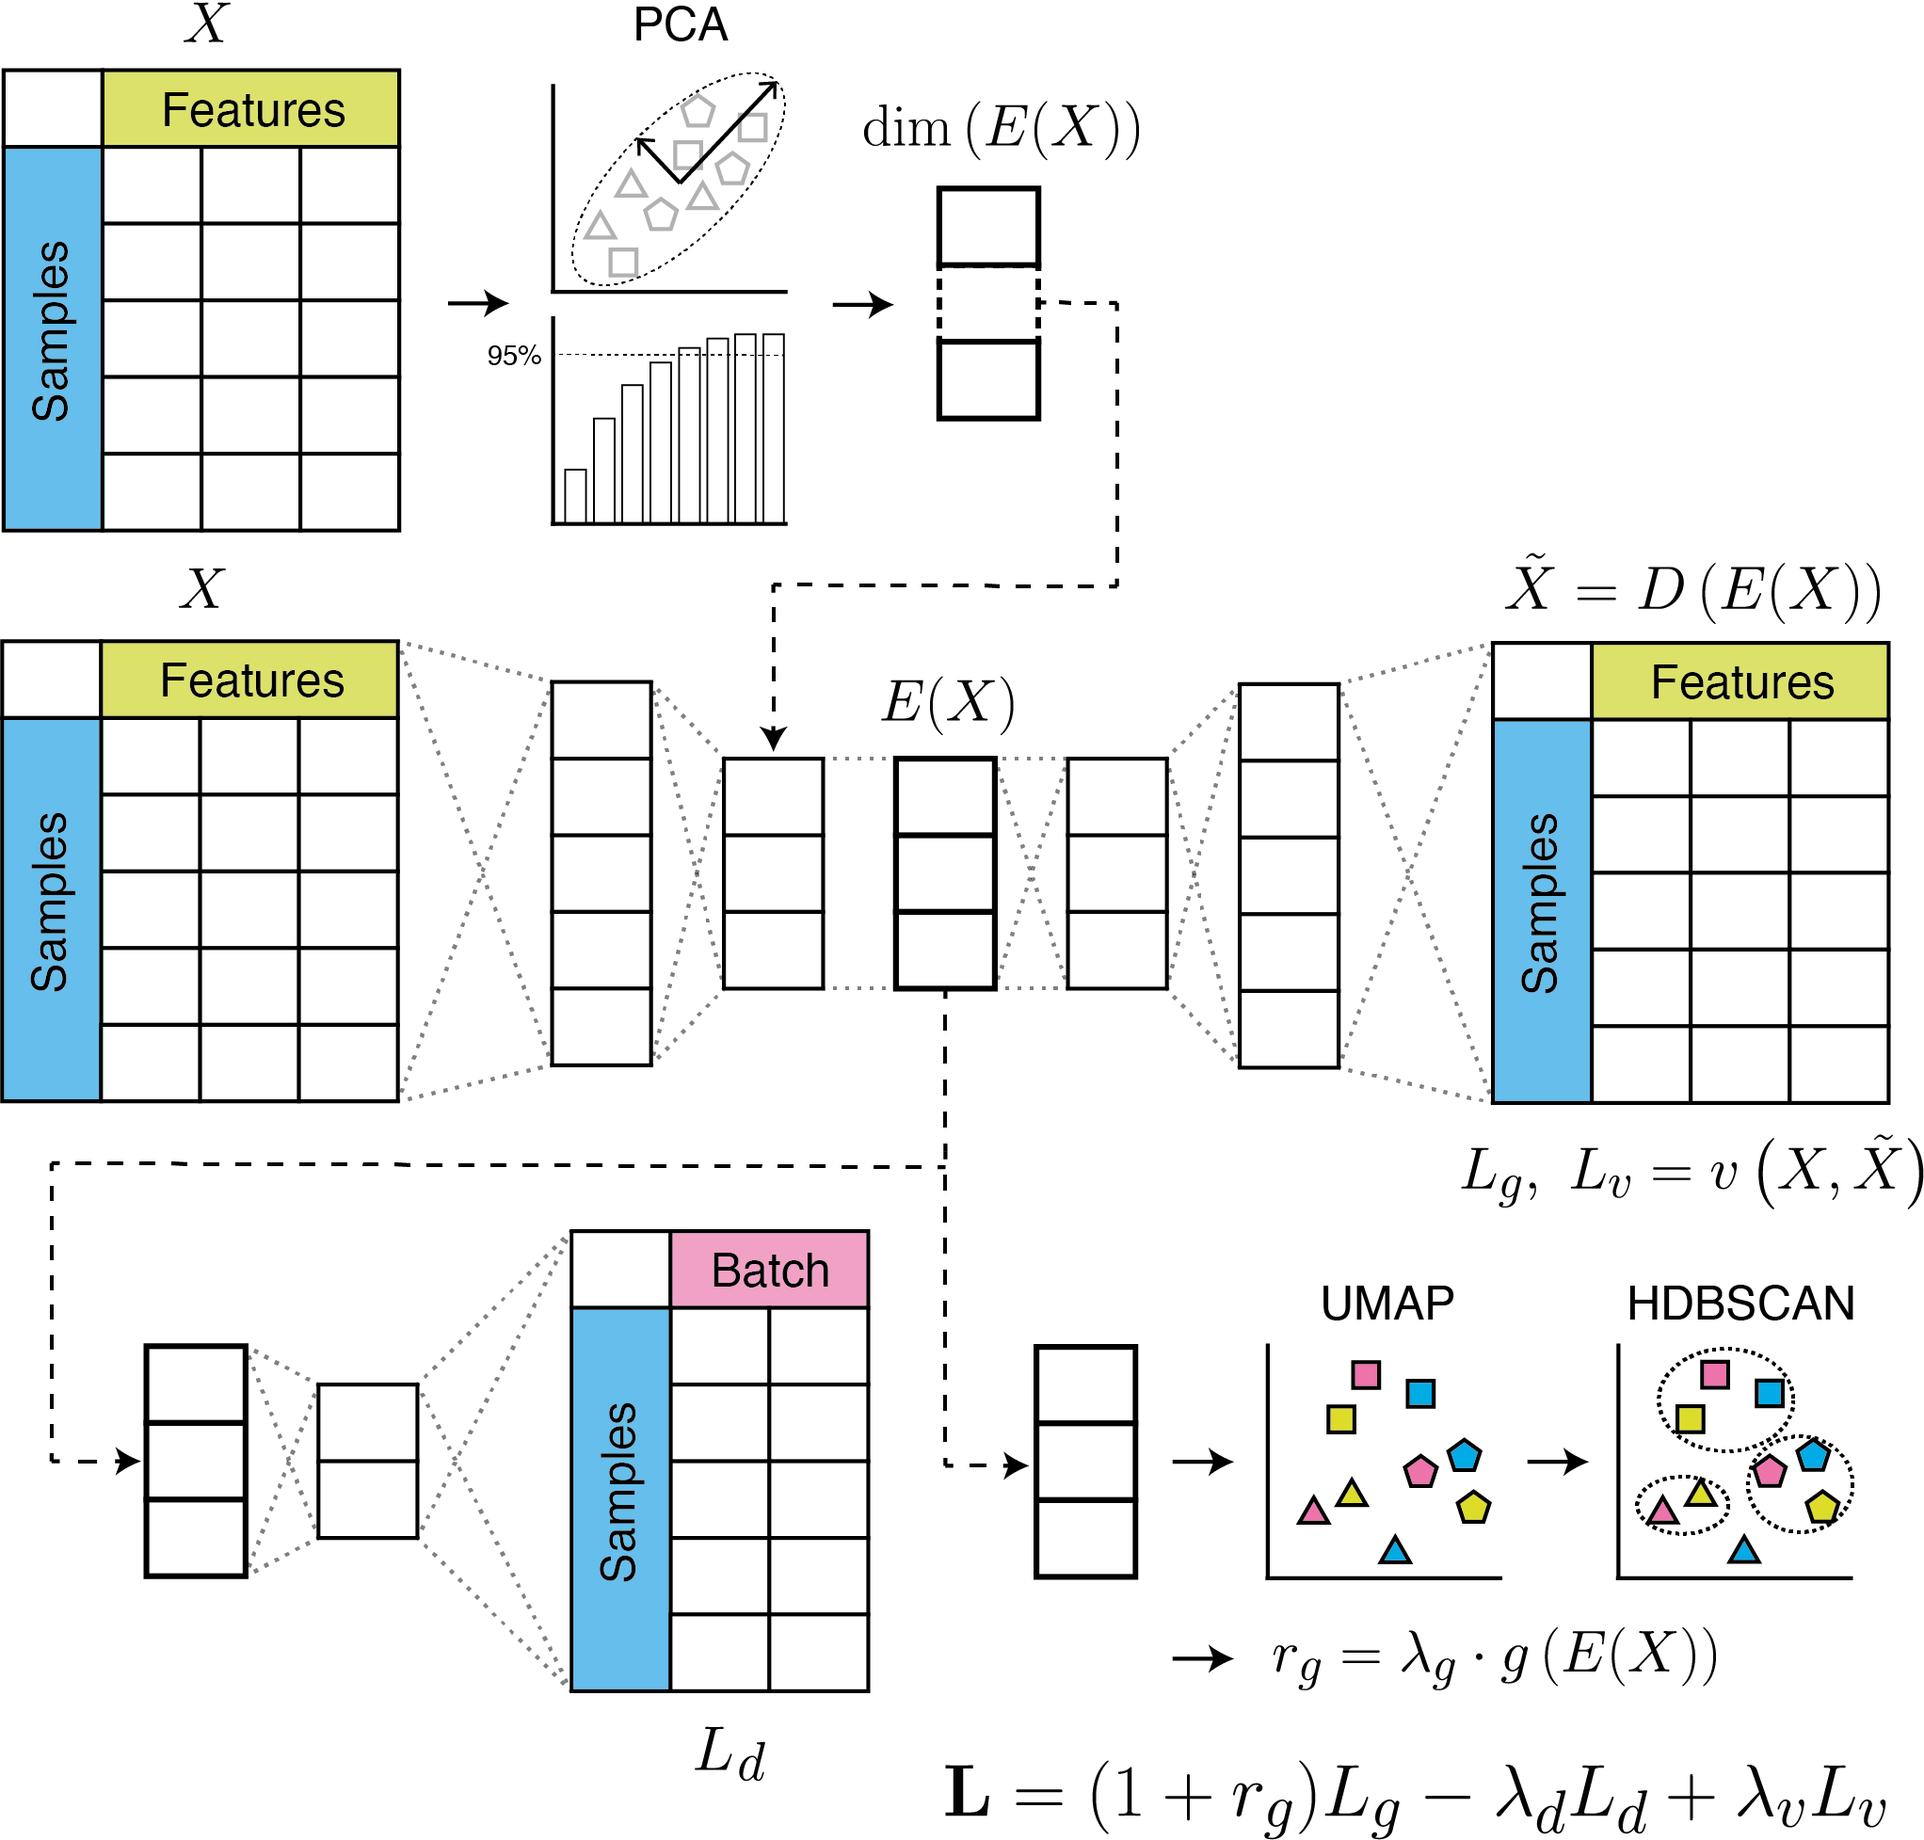
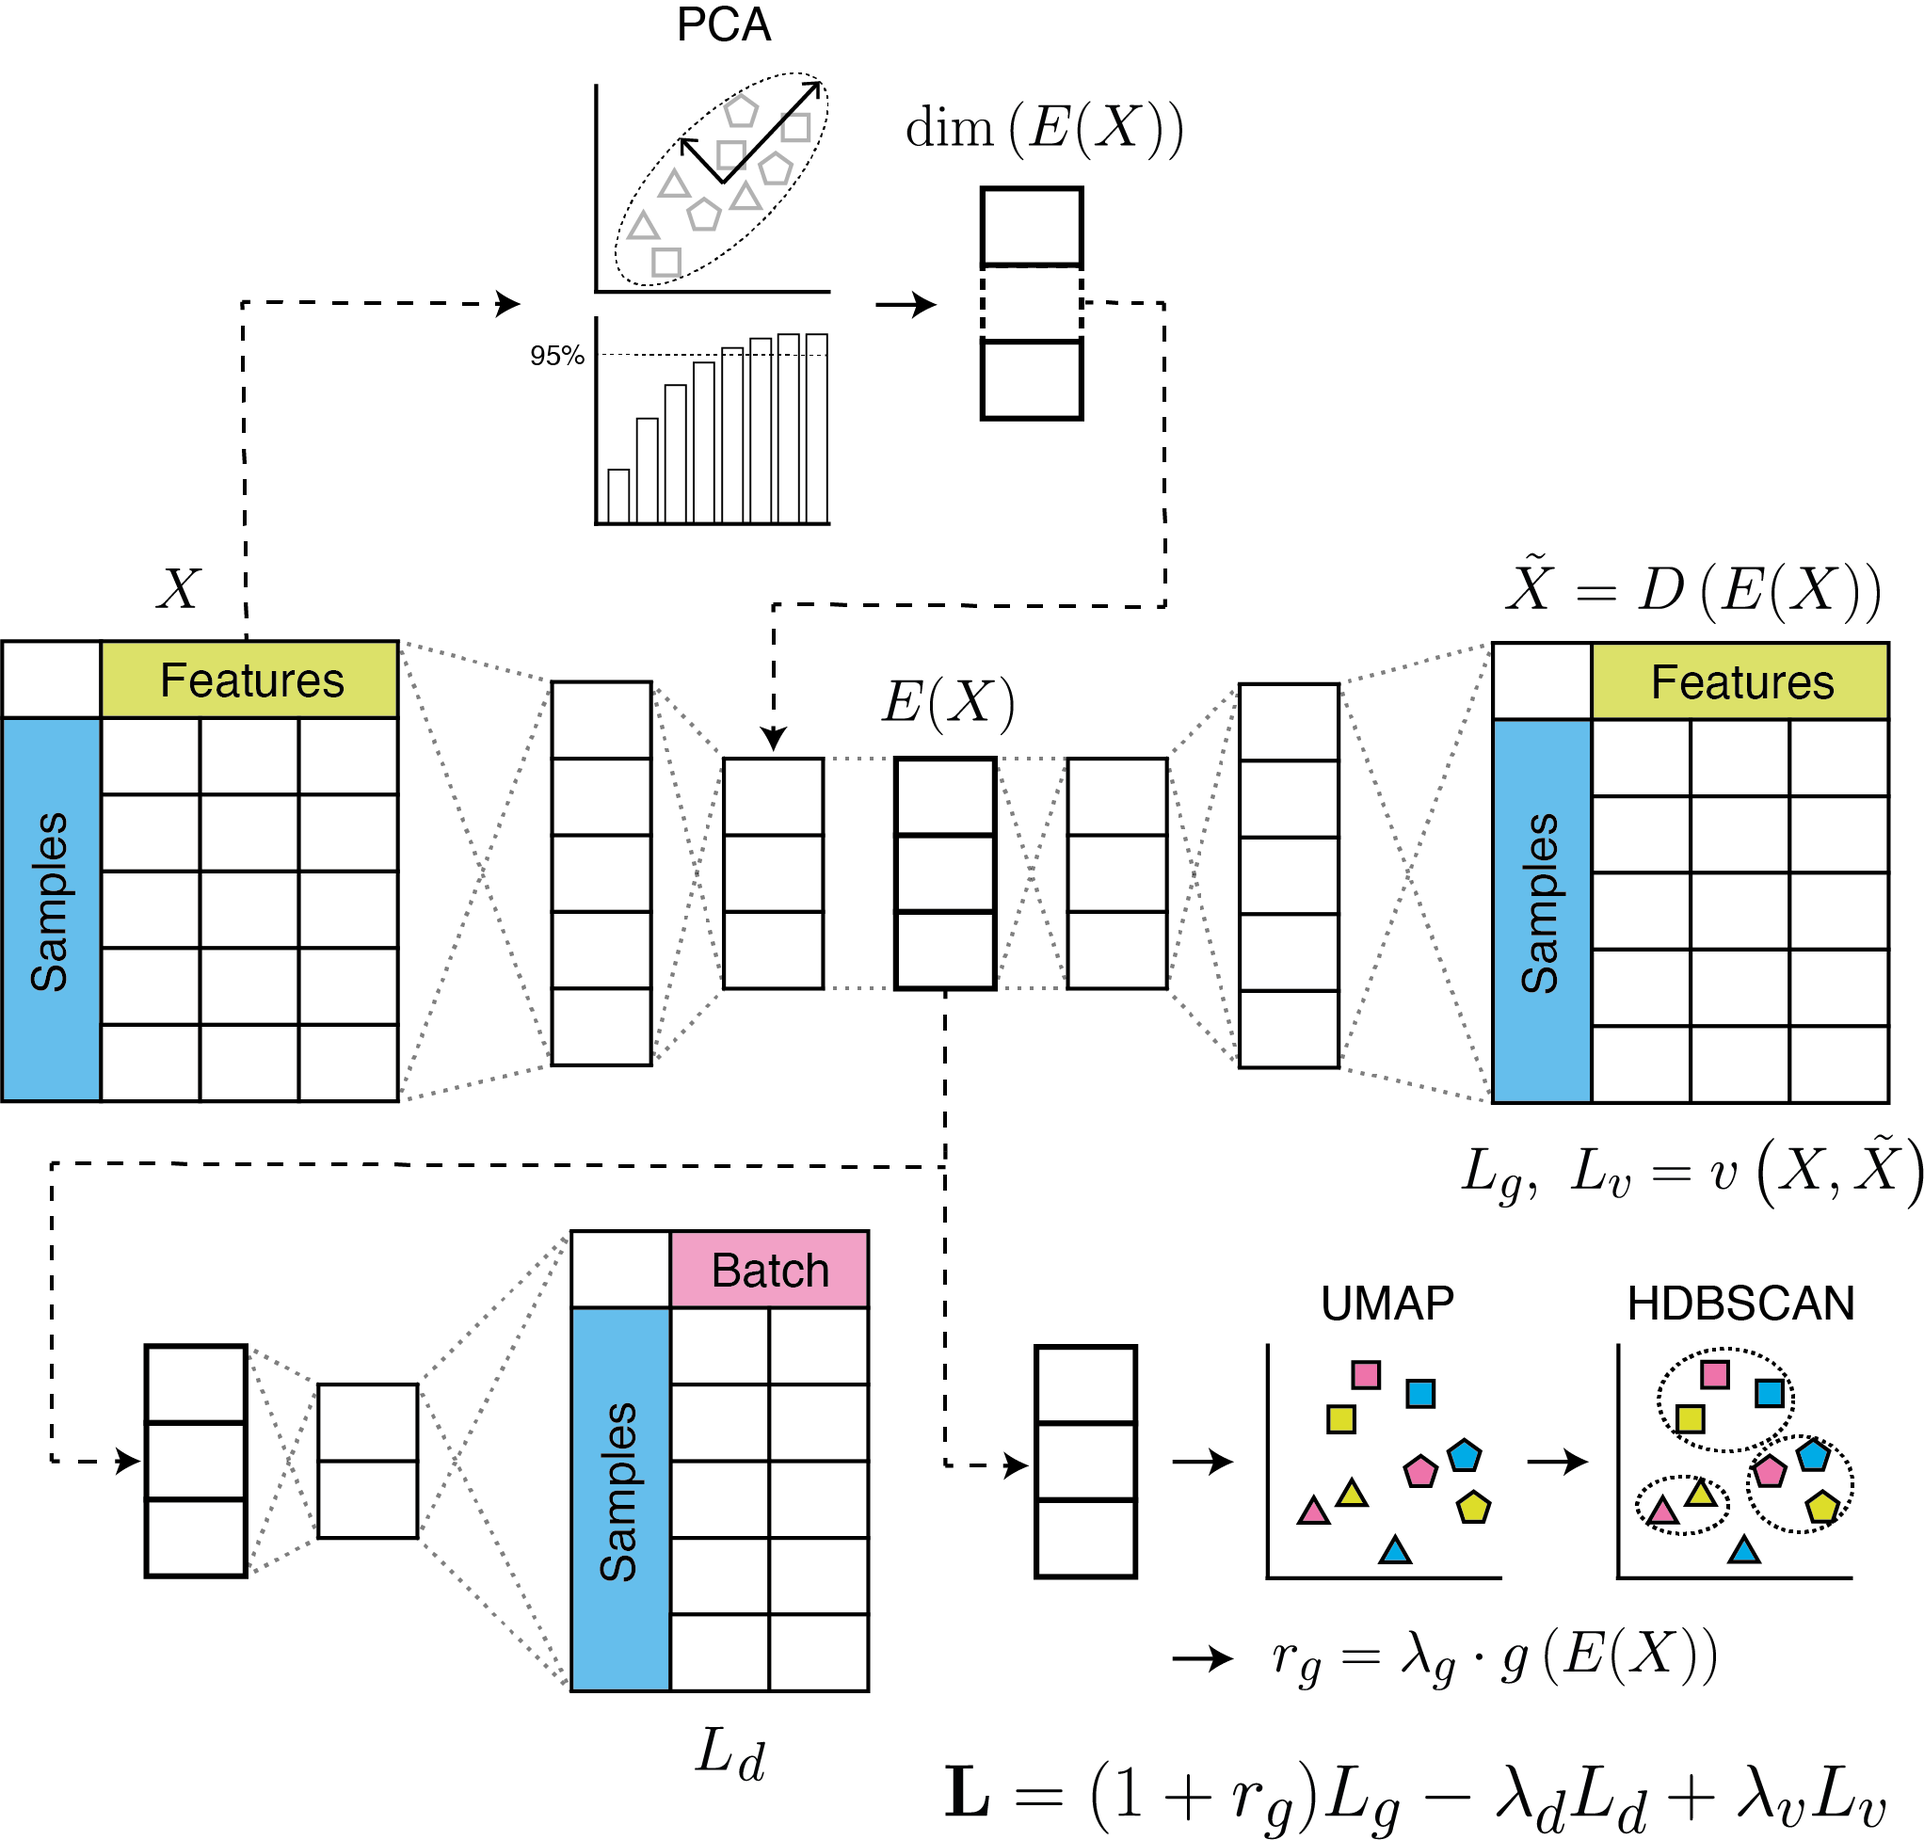
v.0.6.75-dev: readme + examples + schematic updated

diff --git a/src/constants.py b/src/constants.py
@@ -1,5 +1,5 @@
 
-version = "v.0.6.74"
+version = "v.0.6.75"
 
 # CONFIG
 required_config_fields = ['data_path', 'info_path', 'out_path', 'latent_dim', 'variance_ratio', 'n_replicates',

diff --git a/README.md b/README.md
@@ -1,10 +1,10 @@
 # RALPS
-RALPS stands for Regularized Adversarial Learning Preserving Similarity of samples.
+RALPS stands for Regularized Adversarial Learning Preserving Similarity.
 It's a novel method for eliminating batch effects in omics data, developed originally to harmonize distant-in-time multi-batch flow-injection mass-spectrometry measurements.
 
-<img src="https://github.com/dmitrav/normalization/blob/v6_dev/schematic/figure.png" alt="RALPS" width="600"/>
+<img src="https://github.com/dmitrav/normalization/blob/v7_dev/schematic/figure.png" alt="RALPS" width="600"/>
 
-I am currently working towards publishing it.
+I've been working towards publishing it.
 
 ## Requirements
 ```
@@ -21,50 +21,53 @@ umap-learn==0.5.1
 RALPS has been tested on CPU and GPU under MacOS and Windows.  
 Training time required to normalize a dataset with ~3000 samples and ~150 metabolites was 5.82 minutes per run on average (30 epochs).
 
-## How to run
+## How to run normalization
 
-You can run RALPS from command line by typing:  
-`python ralps.py path/to/config.csv`
+Run the following command from the `src` directory to normalize data with RALPS:  
+`python ralps.py -n path/to/config.csv`
 
-Config file contains paths to the data and batch information files, as well as other parameters.
+Config file should contain paths to the data and batch information files, and some other parameters.
+All the required fields, as well as all the necessary parameters, are described below.  
+Find the input example files [here](https://github.com/dmitrav/normalization/tree/master/examples).
 
 ### Config file structure
 
-|       Parameter        |                                     Comment                                      |              Default value              |
-|:----------------------:|:--------------------------------------------------------------------------------:|:---------------------------------------:|
-|       data_path        |                             path to a csv data file                              |                    -                    |
-|       info_path        |                          path to a csv batch info file                           |                    -                    |
-|        out_path        |                       path to a folder to save results to                        |                    -                    |
-|       latent_dim       |                          dim of bottleneck linear layer                          | -1 (automatically derived based on PCA) |
-|     variance_ratio     |                percent of explained variance to derive latent_dim                |          0.7,0.8,0.9,0.95,0.99          |
-|      n_replicates      |                      mean number of replicates in the data                       |                    3                    |
-|       grid_size        |              size of grid search (number of RALPS runs to perform)               |                    1                    |
-|          d_lr          |                             classifier learning rate                             |              0.00005-0.005              |
-|          g_lr          |                            autoencoder learning rate                             |              0.00005-0.005              |
-|        d_lambda        |                           classifier regularizer coef                            |                 0.-10.                  |
-|        g_lambda        |                           autoencoder regularizer coef                           |                 0.-10.                  |
-|        v_lambda        |                               variation loss coef                                |                 0.-10.                  |
-|      train_ratio       |                              train-test split ratio                              |                   0.9                   |
-|       batch_size       |                              data loader batch size                              |                32,64,128                |
-|         epochs         |                                n epochs to train                                 |                   30                    |
-|      skip_epochs       |                       n epochs to skip for model selection                       |                    3                    |
-|    keep_checkpoints    |                    save all model checkpoints after training                     |      False (keep only best model)       |
-|         device         |                                device to train on                                |                   cpu                   |
-|    plots_extension     |                          save plots with this extension                          |                   png                   |
-| min_relevant_intensity |                    data values below will be masked with this                    |                  1000                   |
-|  allowed_vc_increase   | percent of sample's VC increase allowed (not contributing to the variation loss) |                  0.05                   |
+|       Parameter        |                                                           Comment                                                           |            Default value            |
+|:----------------------:|:---------------------------------------------------------------------------------------------------------------------------:|:-----------------------------------:|
+|       data_path        |                                                   path to a csv data file                                                   |                  -                  |
+|       info_path        |                                                path to a csv batch info file                                                |                  -                  |
+|        out_path        |                                           path to a new folder to save results to                                           |                  -                  |
+|       latent_dim       |                                          dimension of the bottleneck linear layer                                           | -1 (automatically derived from PCA) |
+|     variance_ratio     |                                     percent of explained variance to derive latent_dim                                      |        0.9,0.95,0.99        |
+|      n_replicates      |                                            mean number of replicates in the data                                            |                  3                  |
+|       grid_size        |                                       size of the randomized grid search (# of runs)                                        |                  1                  |
+|          d_lr          |                                                  classifier learning rate                                                   |            0.00005-0.005            |
+|          g_lr          |                                                  autoencoder learning rate                                                  |            0.00005-0.005            |
+|        d_lambda        |                                                    classifier loss coef                                                     |               0.-10.                |
+|        g_lambda        |                                            autoencoder regularization term coef                                             |               0.-10.                |
+|        v_lambda        |                                                     variation loss coef                                                     |               0.-10.                |
+|      train_ratio       |                                                   train-test split ratio                                                    |                 0.9                 |
+|       batch_size       |                                                   data loader batch size                                                    |              32,64,128              |
+|         epochs         |                                                    # of epochs to train                                                     |                 30                  |
+|      skip_epochs       |                                           # of epochs to skip for model selection                                           |                  3                  |
+|    keep_checkpoints    |                                          save all model checkpoints after training                                          |    False (keep only best model)     |
+|         device         |                                                 device to train on (Torch)                                                  |                 cpu                 |
+|    plots_extension     |                                               save plots with this extension                                                |                 png                 |
+| min_relevant_intensity | missing values before normalization are replaced with this;<br/>values below this after normalization are masked with zeros |                1000                 |
+|  allowed_vc_increase   |                      fraction of sample's VC increase allowed (not contributing to the variation loss)                       |                0.05                 |
 
-For most parameters, _coma separated values_ (e.g., batch_size) or _dash separated intervals_ (e.g., d_lr) can be provided.
-For those parameters values will be _uniformly sampled_ during the grid search, using supplied options / intervals.
-Otherwise, the exact values provided will be used. _Default_ parameter values can be used by just setting __-1__.
+For most parameters, _coma separated values_ (e.g., `'batch_size'`) or _dash separated intervals_ (e.g., `'d_lr'`) can be provided.
+For those, values will be uniformly sampled in the randomized grid search using defined options or intervals.
+Otherwise, the exact values provided will be used.  
+Default parameter values can be used by setting `'-1'`.
 
 ### Data file structure
 
 |              |  sample_id_1  |  ...  | sample_id_M |
-| :----------: | :--------: | :--:  |  :--:    |
-| metabolite_1 | count      |       |  count   |
-| ...          |            |       |          |
-| metabolite_N | count      |       |  count   |
+| :----------: | :--------:    | :--:  |  :--:       |
+| feature_1    | count         |       |  count      |
+| ...          |               |       |             |
+| feature_N    | count         |       |  count      |
 
 
 ### Batch info file structure
@@ -80,9 +83,23 @@ Otherwise, the exact values provided will be used. _Default_ parameter values ca
 
 * __Batch__ column indicates samples' batch labels.  
 * __Group__ column indicates groups of identical samples (replicates), _used for regularization_. 
-If several samples have the same label (e.g., 'reg_1'), they are treated as replicates of the same material.
-While training, samples of the same group are encouraged to appear in the same cluster. Use 0 to provide no information about similarity of samples.
-* __Benchmark__ indicates groups of identical samples taken as benchmarks in model evaluation. They are _not used for regularization_ while training.
+If several samples have the same label (e.g., `'reg_1'`), they are treated as replicates of the same material.
+While training, samples of the same group are encouraged to appear in the same cluster. Use `'0'` or `''` to provide no information about similarity of samples.
+* __Benchmark__ indicates groups of identical samples taken as benchmarks in model evaluation. They are _not used for regularization_ while training, unless they appear in the group column as well.
 
-### Examples
-Find input file examples [here](https://github.com/dmitrav/normalization/tree/master/examples).
+
+## How to evaluate checkpoints
+
+If you choose to keep checkpoints in the config file, you will find the autoencoder model at each training epoch saved in the `checkpoints` directory.
+You can select a few checkpoints based on the training history to obtain alternative normalization solutions and the corresponding evaluation plots.  
+To do that, remove unnecessary checkpoints and run the following command from the `src` directory:  
+`python ralps.py -e path/to/directory/with/checkpoints/`
+
+__Important:__ This works only with default RALPS output (directories and filenames should not be changed).  
+
+## How to remove outliers 
+
+If you wish to remove outliers from the normalized data, as proposed in the paper, run the following command from the `src` directory:  
+`python ralps.py -r path/to/normalized/data.csv`
+
+__Important:__ This works only with default RALPS output (directories and filenames should not be changed).
